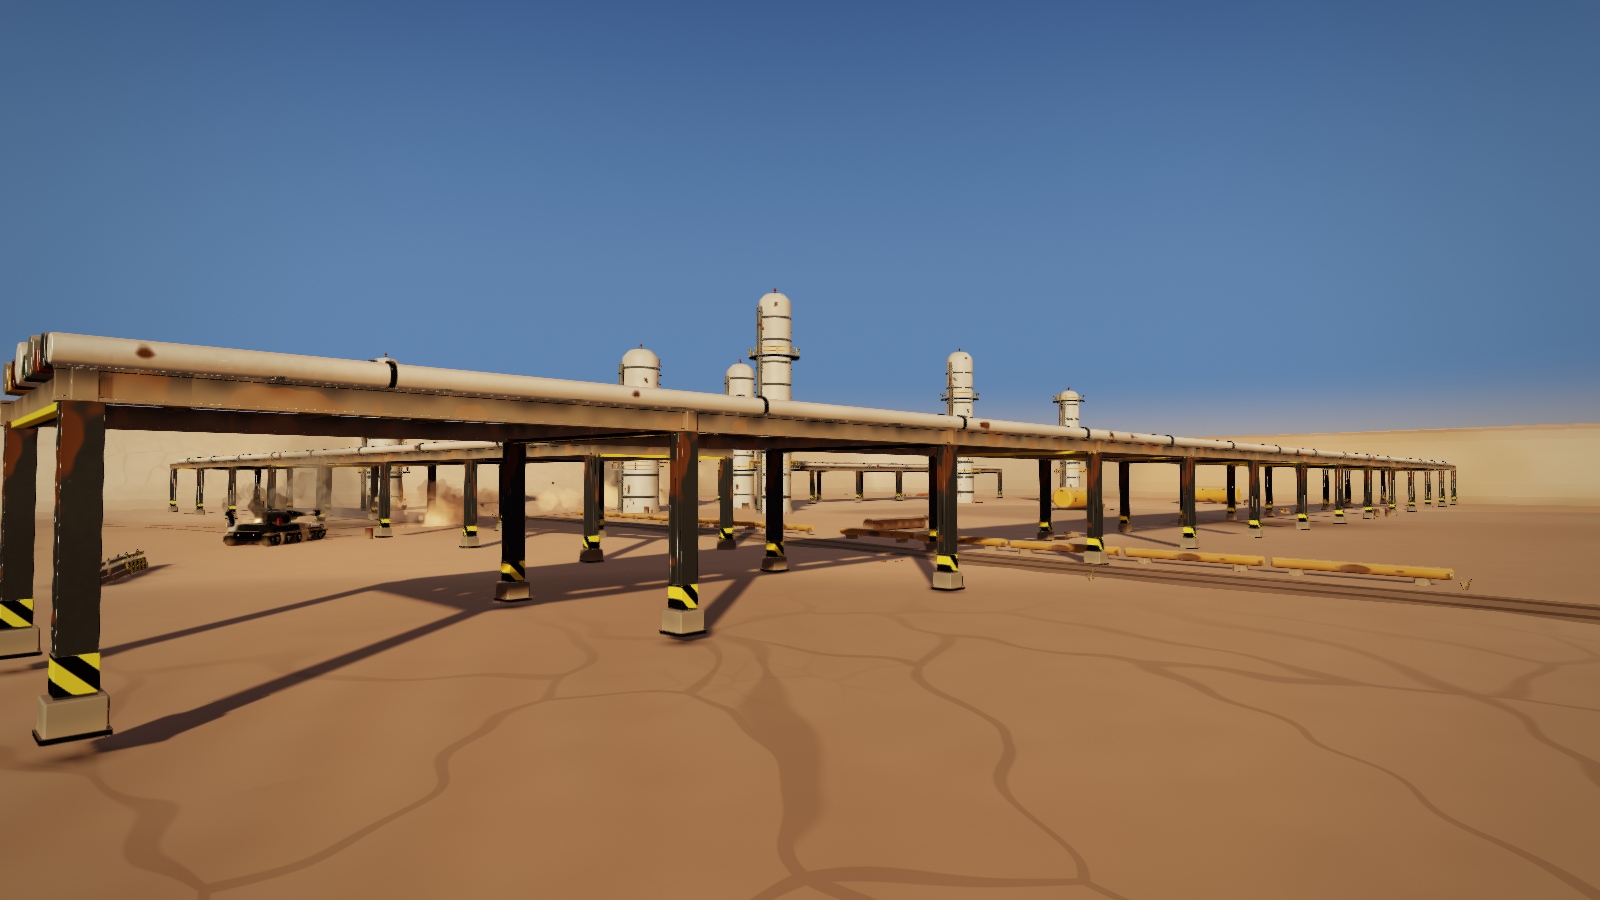
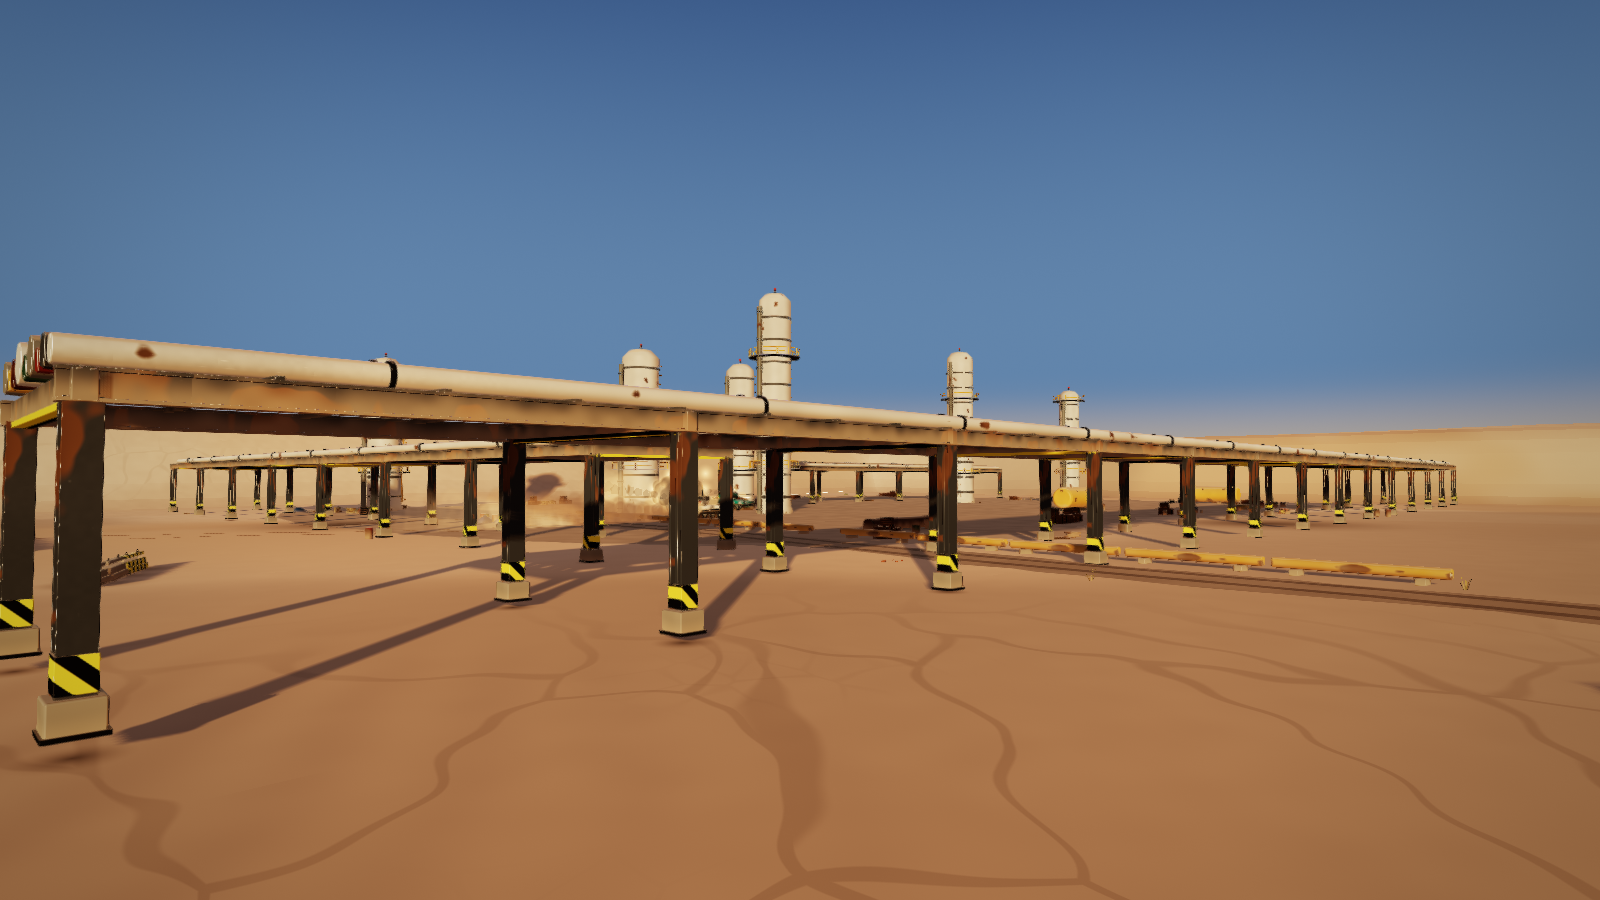
Distinct times of day, readable shadowed walls, tighter smoke, no tracer streaks

diff --git a/crates/arena-client/src/renderer.rs b/crates/arena-client/src/renderer.rs
@@ -201,22 +201,23 @@ impl Look {
             TimeOfDay::Dusk => {
                 l.sun_elevation = 8.0;
                 l.sun_color = Vec3::new(1.0, 0.55, 0.28) * 2.2;
-                l.sky_color = Vec3::new(0.36, 0.38, 0.62) * 0.4;
-                l.ground_color = Vec3::new(0.9, 0.45, 0.25) * 0.45;
+                l.sky_color = Vec3::new(0.36, 0.38, 0.62) * 0.5;
+                l.ground_color = Vec3::new(0.9, 0.45, 0.25) * 0.56;
                 l.haze = Vec3::new(1.0, 0.66, 0.46) * 1.1;
                 l.warmth = Vec3::new(1.04, 0.99, 0.93);
                 l.exposure = 0.5;
                 l.sky_gain = 0.4;
             }
             TimeOfDay::Noon => {
-                l.sun_elevation = 62.0;
-                // Still a desert noon: a warm white sun, warm haze and a grade
-                // that keeps the sand's (and the salt flat's) colour.
-                l.sun_color = Vec3::new(1.0, 0.9, 0.74) * 2.6;
-                l.sky_color = Vec3::new(0.42, 0.5, 0.7) * 0.45;
-                l.haze = Vec3::new(0.98, 0.87, 0.72) * 1.2;
-                l.warmth = Vec3::new(1.04, 1.0, 0.92);
-                l.saturation = 1.12;
+                l.sun_elevation = 72.0;
+                // A high sun in a near-neutral white (short shadows), with a
+                // grade that still keeps the sand's (and the salt flat's) colour.
+                l.sun_color = Vec3::new(1.0, 0.93, 0.82) * 2.6;
+                l.sky_color = Vec3::new(0.42, 0.5, 0.7) * 0.55;
+                l.ground_color = Vec3::new(0.85, 0.68, 0.5) * 0.6;
+                l.haze = Vec3::new(0.96, 0.89, 0.78) * 1.2;
+                l.warmth = Vec3::new(1.02, 1.0, 0.95);
+                l.saturation = 1.1;
                 l.exposure = 0.205;
             }
         }
@@ -227,18 +228,21 @@ impl Look {
 
 impl Default for Look {
     fn default() -> Self {
-        // Golden hour: a low warm sun about 20 degrees up.
-        let (elev, az) = (20.0f32, 140.0f32);
+        // Golden hour (the default, and most matches): a low warm sun 13
+        // degrees up, long shadows. Noon and dusk differ clearly from it.
+        let (elev, az) = (13.0f32, 140.0f32);
         let sun_dir = Vec3::new(az.to_radians().cos() * elev.to_radians().cos(), elev.to_radians().sin(), az.to_radians().sin() * elev.to_radians().cos());
         Self {
             sun_elevation: elev,
             sun_azimuth: az,
             sun_dir,
-            sun_color: Vec3::new(1.0, 0.80, 0.58) * 2.8,
+            sun_color: Vec3::new(1.0, 0.74, 0.48) * 2.9,
             sky_gain: 0.5,
-            sky_color: Vec3::new(0.40, 0.48, 0.70) * 0.42,
-            ground_color: Vec3::new(0.92, 0.62, 0.38) * 0.55,
-            haze: Vec3::new(1.0, 0.86, 0.68) * 1.25,
+            // Generous fill, so faces turned from the sun (dune and canyon
+            // walls) still read in shadow.
+            sky_color: Vec3::new(0.40, 0.48, 0.70) * 0.55,
+            ground_color: Vec3::new(0.92, 0.62, 0.38) * 0.68,
+            haze: Vec3::new(1.0, 0.84, 0.64) * 1.25,
             haze_start: 140.0,
             haze_density: 0.0018,
             height_fog: 0.00035,
@@ -249,10 +253,10 @@ impl Default for Look {
             splits: [24.0, 75.0, 230.0],
             rim: 1.0,
             spec: 1.0,
-            exposure: 0.30,
+            exposure: 0.32,
             vignette: 0.3,
             saturation: 0.97,
-            warmth: Vec3::new(1.03, 1.0, 0.95),
+            warmth: Vec3::new(1.05, 1.0, 0.91),
             bloom: 0.05,
             bloom_threshold: 1.0,
             bloom_scatter: 0.55,

diff --git a/crates/arena-client/src/effects.rs b/crates/arena-client/src/effects.rs
@@ -189,7 +189,12 @@ impl Fx {
     #[allow(clippy::too_many_arguments)]
     fn smoke_a(&mut self, pos: Vec3, vel: Vec3, size: f32, dark: f32, life: f32, alpha: f32) {
         let c = Vec3::new(0.62, 0.58, 0.54).lerp(Vec3::new(0.12, 0.1, 0.09), dark);
-        self.spawn(Kind::Puff, pos, vel, life, (size * 0.5, size * 1.6), (c, c * 1.1), alpha, 1.2, 1.2, 0.0);
+        // Dark smoke stays tighter, with a crisper outline, and clears
+        // sooner (`heat` carries the darkness to the fade and the shader),
+        // so plumes read as stylized puffs, not a smudge across the sky.
+        let grow = 1.6 - 0.45 * dark;
+        let life = life * (1.0 - 0.3 * dark);
+        self.spawn(Kind::Puff, pos, vel, life, (size * 0.55, size * grow), (c, c * 1.1), alpha, 1.2, 1.2, dark);
     }
 
     fn dust(&mut self, pos: Vec3, vel: Vec3, size: f32, life: f32) {
@@ -687,7 +692,7 @@ impl Fx {
             for _ in 0..m {
                 let j = self.rand_dir() * 0.6;
                 let dark = 0.75 + 0.2 * self.rand();
-                self.smoke(tip + Vec3::Y * 5.0 + j, Vec3::Y * 4.0 + wind * 1.6, 2.6, dark, 7.0);
+                self.smoke(tip + Vec3::Y * 5.0 + j, Vec3::Y * 4.0 + wind * 1.6, 2.0, dark, 7.0);
             }
         }
         // Smoke screens: keep each cloud filled while it lives.
@@ -746,7 +751,7 @@ impl Fx {
             let c = p.col0.lerp(p.col1, t);
             // Puffs fade in quickly and out slowly; glows burn out.
             let a = match p.kind {
-                Kind::Puff => p.alpha * (t / 0.08).min(1.0) * (1.0 - t).powf(1.4),
+                Kind::Puff => p.alpha * (t / 0.08).min(1.0) * (1.0 - t).powf(1.4 + 1.4 * p.heat),
                 Kind::Glow => p.alpha * (1.0 - t),
                 Kind::Streak => p.alpha * (1.0 - t),
                 Kind::Chunk => p.alpha * (1.0 - ((t - 0.85) / 0.15).clamp(0.0, 1.0)),
@@ -771,7 +776,17 @@ impl Fx {
                 Sprite {
                     pos_size: p.pos.extend(size).to_array(),
                     color: c.extend(a).to_array(),
-                    params: [p.kind as u32 as f32, p.rot, p.seed, if p.kind == Kind::Glow { p.heat * (1.0 - t) } else { 0.0 }],
+                    params: [
+                        p.kind as u32 as f32,
+                        p.rot,
+                        p.seed,
+                        match p.kind {
+                            Kind::Glow => p.heat * (1.0 - t),
+                            // Puffs: how dark (crisper edge for smoke).
+                            Kind::Puff => p.heat,
+                            _ => 0.0,
+                        },
+                    ],
                     axis: axis.extend(0.0).to_array(),
                 },
             ));
